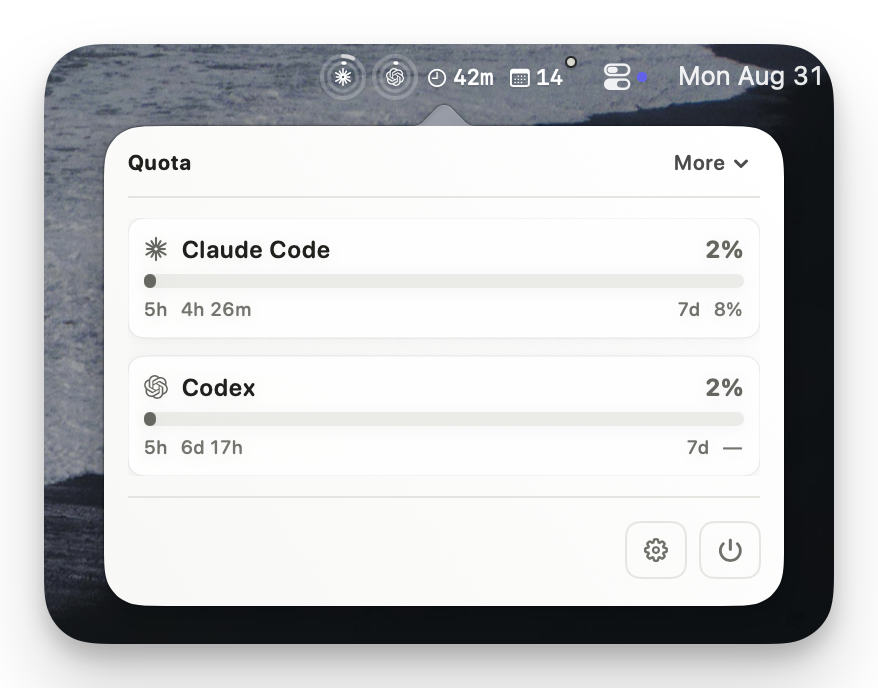
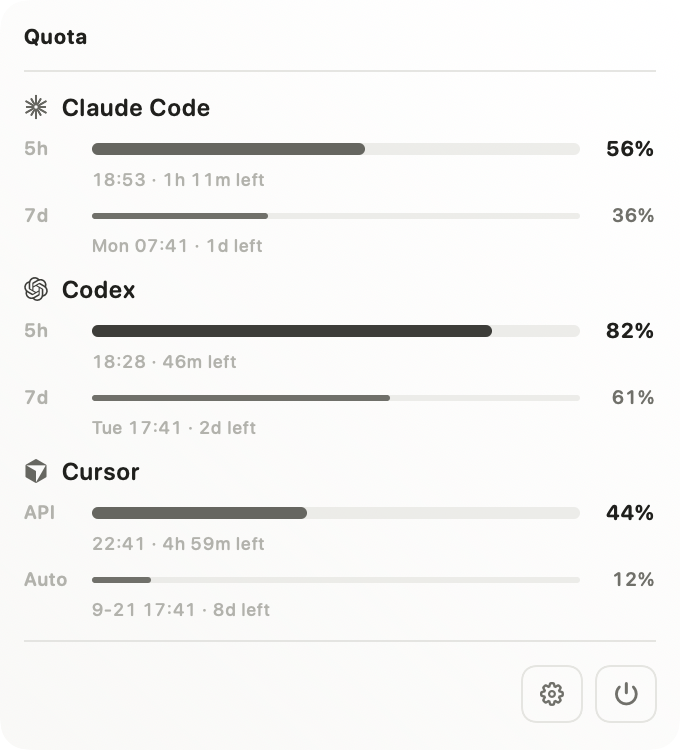
Trim the README and refresh the quota screenshot
The README explained the menu bar, restated the product framing three times,
and illustrated quota with a screenshot of the old single-bar row that no
longer exists. Work and goals now sit behind a disclosure so the front page
leads with the one thing most people install this for.

Regenerating the screenshot surfaced a real layout bug: Cursor labels its
windows 'API' and 'Auto' rather than '5h' and '7d', and the 18pt label column
wrapped 'Auto' onto two lines. The column width moves to QuotaCaption with a
test that measures every shipped label against it.

The snapshot harness now mocks providers that all have readings, so the
screenshot shows the product working rather than a no-data placeholder.

diff --git a/scripts/snapshot.swift b/scripts/snapshot.swift
@@ -62,23 +62,22 @@ func renderHosting(
 struct Snap {
     @MainActor
     static func makeMocks() -> [ProviderView] {
+        // Healthy, fully-populated readings: the README should show the
+        // product working, not an error state. The "no data" placeholder is
+        // exercised by tests, not by marketing screenshots.
         return [
             ProviderView(id: "claude", mark: "", displayName: "Claude Code",
                          fiveHourPercent: 56, weekPercent: 36,
                          resetDate: Date(timeIntervalSinceNow: 72 * 60),
                          weekResetDate: Date(timeIntervalSinceNow: 38 * 3600)),
             ProviderView(id: "codex", mark: "", displayName: "Codex",
-                         fiveHourPercent: 82, weekPercent: nil,
+                         fiveHourPercent: 82, weekPercent: 61,
                          resetDate: Date(timeIntervalSinceNow: 47 * 60),
-                         weekResetDate: nil),
-            ProviderView(id: "ark-agent", mark: "", displayName: "Ark Agent",
-                         fiveHourPercent: 0, weekPercent: 87,
-                         resetDate: nil,
-                         weekResetDate: Date(timeIntervalSinceNow: 13 * 3600)),
-            ProviderView(id: "minimax", mark: "", displayName: "MiniMax",
-                         fiveHourPercent: 69, weekPercent: 17,
-                         resetDate: Date(timeIntervalSinceNow: 22 * 60),
-                         weekResetDate: Date(timeIntervalSinceNow: 14 * 3600)),
+                         weekResetDate: Date(timeIntervalSinceNow: 3 * 24 * 3600)),
+            ProviderView(id: "cursor", mark: "", displayName: "Cursor",
+                         fiveHourPercent: 44, weekPercent: 12,
+                         resetDate: Date(timeIntervalSinceNow: 5 * 3600),
+                         weekResetDate: Date(timeIntervalSinceNow: 9 * 24 * 3600)),
         ]
     }
 
@@ -86,7 +85,7 @@ struct Snap {
     static func makePrefs(_ lang: Lang) -> Prefs {
         let p = Prefs()
         p.language = lang
-        p.visibleProviders = ["claude", "codex", "ark-agent", "minimax"]
+        p.visibleProviders = ["claude", "codex", "cursor"]
         p.menubarStyle = .blackWhite
         p.showRemaining = false
         // Slim default — quota only (matches shipped lean modules).

diff --git a/Sources/Kaji/KajiPopoverView.swift b/Sources/Kaji/KajiPopoverView.swift
@@ -405,11 +405,15 @@ struct KajiPopoverView: View {
         let barColor = nearLimit ? t.amber : (emphasized ? t.gold : t.mute)
         return VStack(alignment: .leading, spacing: 3) {
             HStack(spacing: 8) {
+                // Cursor's window labels are words ("API" / "Auto"), not the
+                // 2-character "5h" / "7d" — a narrower slot wraps them.
                 Text(label)
                     .font(.system(size: 9.5, weight: .semibold, design: .rounded))
                     .monospacedDigit()
                     .foregroundColor(t.ash)
-                    .frame(width: 18, alignment: .leading)
+                    .lineLimit(1)
+                    .fixedSize(horizontal: true, vertical: false)
+                    .frame(width: QuotaCaption.windowLabelWidth, alignment: .leading)
                 if hasReading {
                     progressBar(fraction, color: barColor, height: emphasized ? 6 : 3)
                 } else {
@@ -429,7 +433,7 @@ struct KajiPopoverView: View {
                 .foregroundColor(t.ash)
                 .lineLimit(1)
                 .minimumScaleFactor(0.8)
-                .padding(.leading, 26)
+                .padding(.leading, QuotaCaption.windowLabelWidth + 8)
         }
     }
 

diff --git a/Tests/KajiTests/QuotaCaptionTests.swift b/Tests/KajiTests/QuotaCaptionTests.swift
@@ -1,3 +1,4 @@
+import AppKit
 import XCTest
 @testable import KajiCore
 
@@ -36,6 +37,21 @@ final class QuotaCaptionTests: XCTestCase {
     func testNonFiniteIsNotAReading() {
         XCTAssertFalse(QuotaCaption.hasReading(.nan))
         XCTAssertFalse(QuotaCaption.hasReading(.infinity))
+    }
+
+    /// Cursor labels its windows "API" / "Auto" instead of "5h" / "7d". The
+    /// label column must fit the longest of them on one line: a 18pt slot
+    /// wrapped "Auto" and knocked the whole row out of alignment.
+    func testWindowLabelColumnFitsWordLabels() {
+        XCTAssertGreaterThanOrEqual(QuotaCaption.windowLabelWidth, 26)
+        for label in ["5h", "7d", "API", "Auto"] {
+            let width = label.size(withAttributes: [
+                .font: NSFont.systemFont(ofSize: 9.5, weight: .semibold)
+            ]).width
+            XCTAssertLessThanOrEqual(
+                width, QuotaCaption.windowLabelWidth,
+                "\(label) does not fit the window-label column")
+        }
     }
 
     /// The caption must say something actionable, not an em dash that looks

diff --git a/Sources/KajiCore/QuotaCaption.swift b/Sources/KajiCore/QuotaCaption.swift
@@ -1,3 +1,4 @@
+import CoreGraphics
 import Foundation
 
 /// Captions for a single quota window in the popover.
@@ -9,6 +10,11 @@ import Foundation
 public enum QuotaCaption {
     /// Shown instead of a reset time when the provider returned no reading.
     public static let unavailable = "no data \u{00B7} check sign-in"
+
+    /// Width of the window-label column. Wide enough for Cursor's word labels
+    /// ("API" / "Auto"), not just the 2-character "5h" / "7d" — a narrower
+    /// slot wrapped "Auto" onto two lines and broke the row's alignment.
+    public static let windowLabelWidth: CGFloat = 26
 
     /// Percent text for a window. `nil` is an em dash, never "0%".
     public static func percent(_ value: Double?) -> String {
